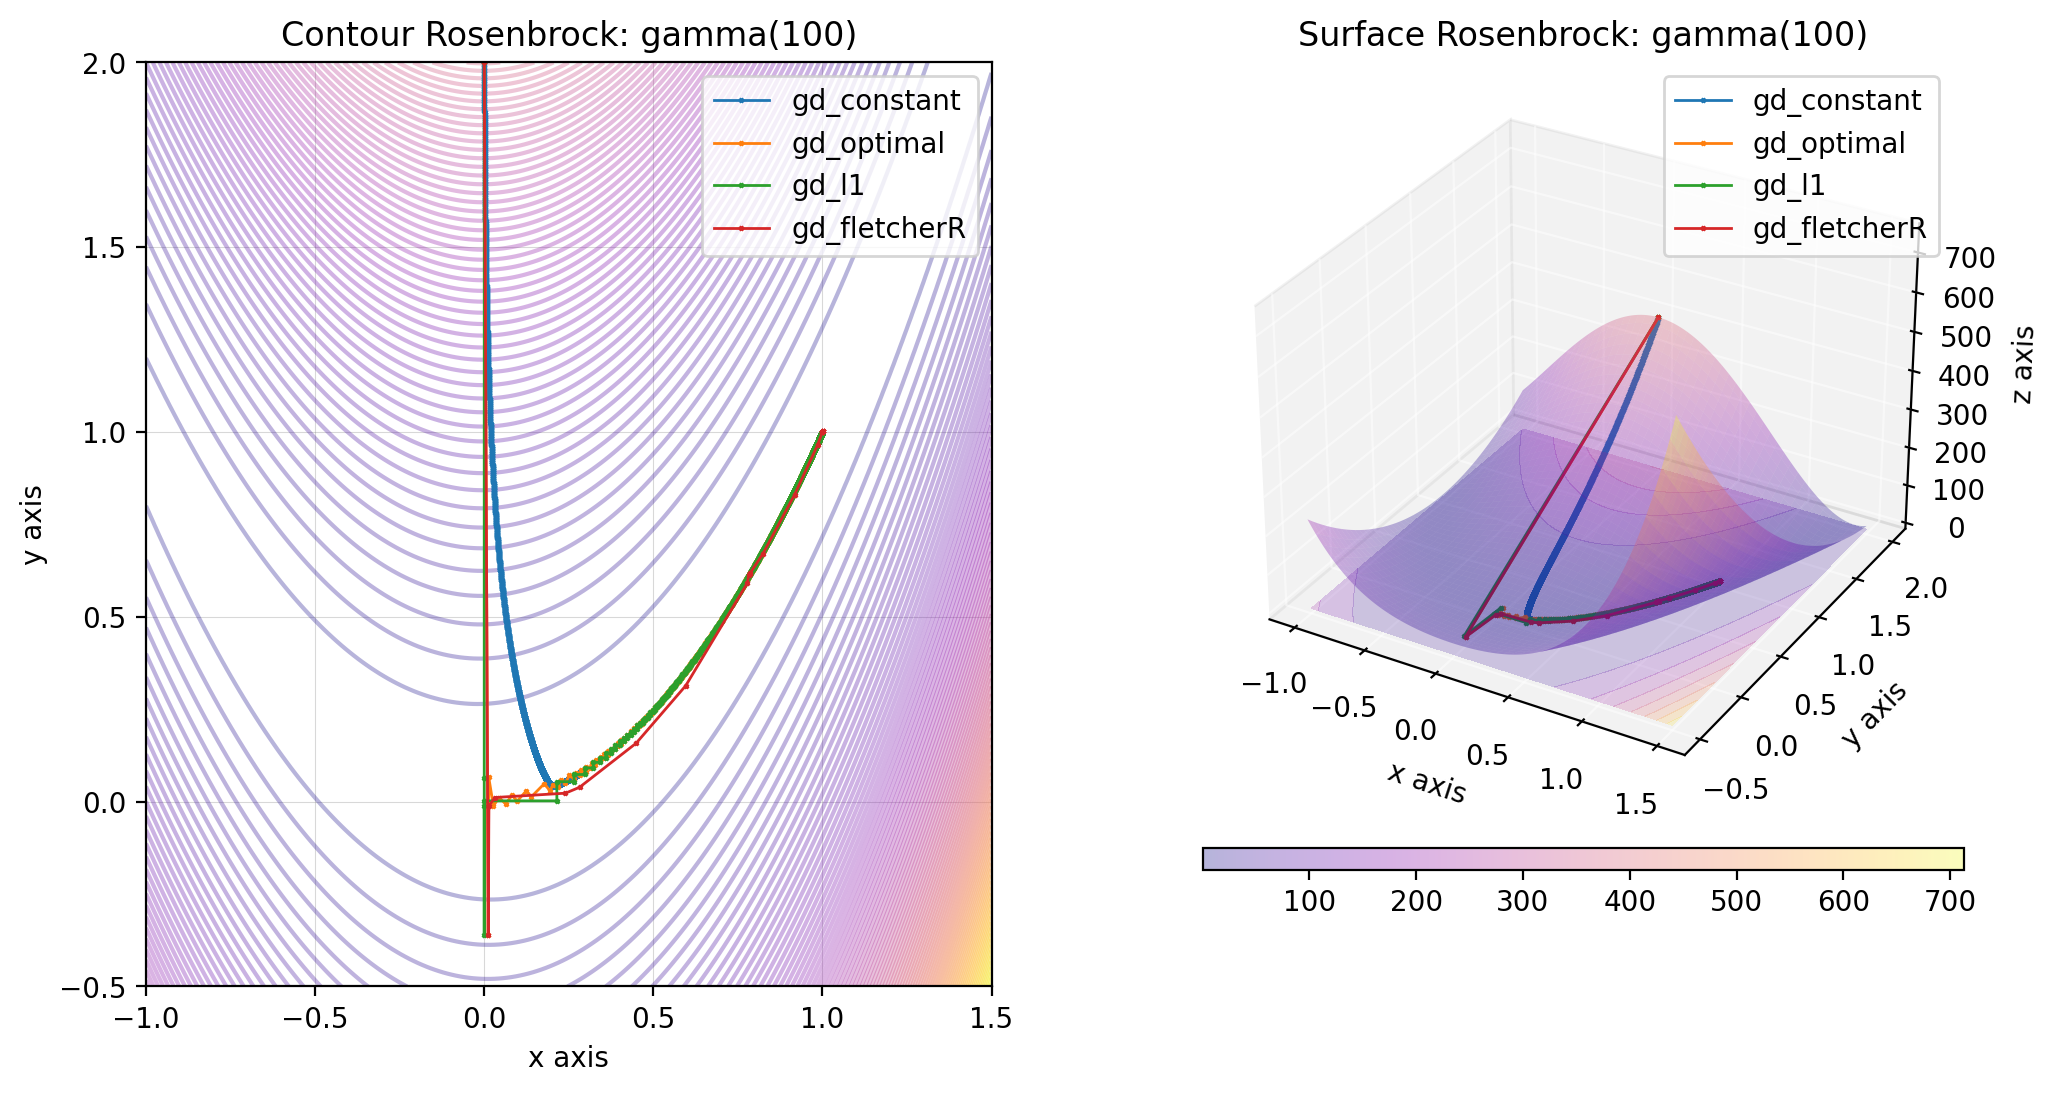
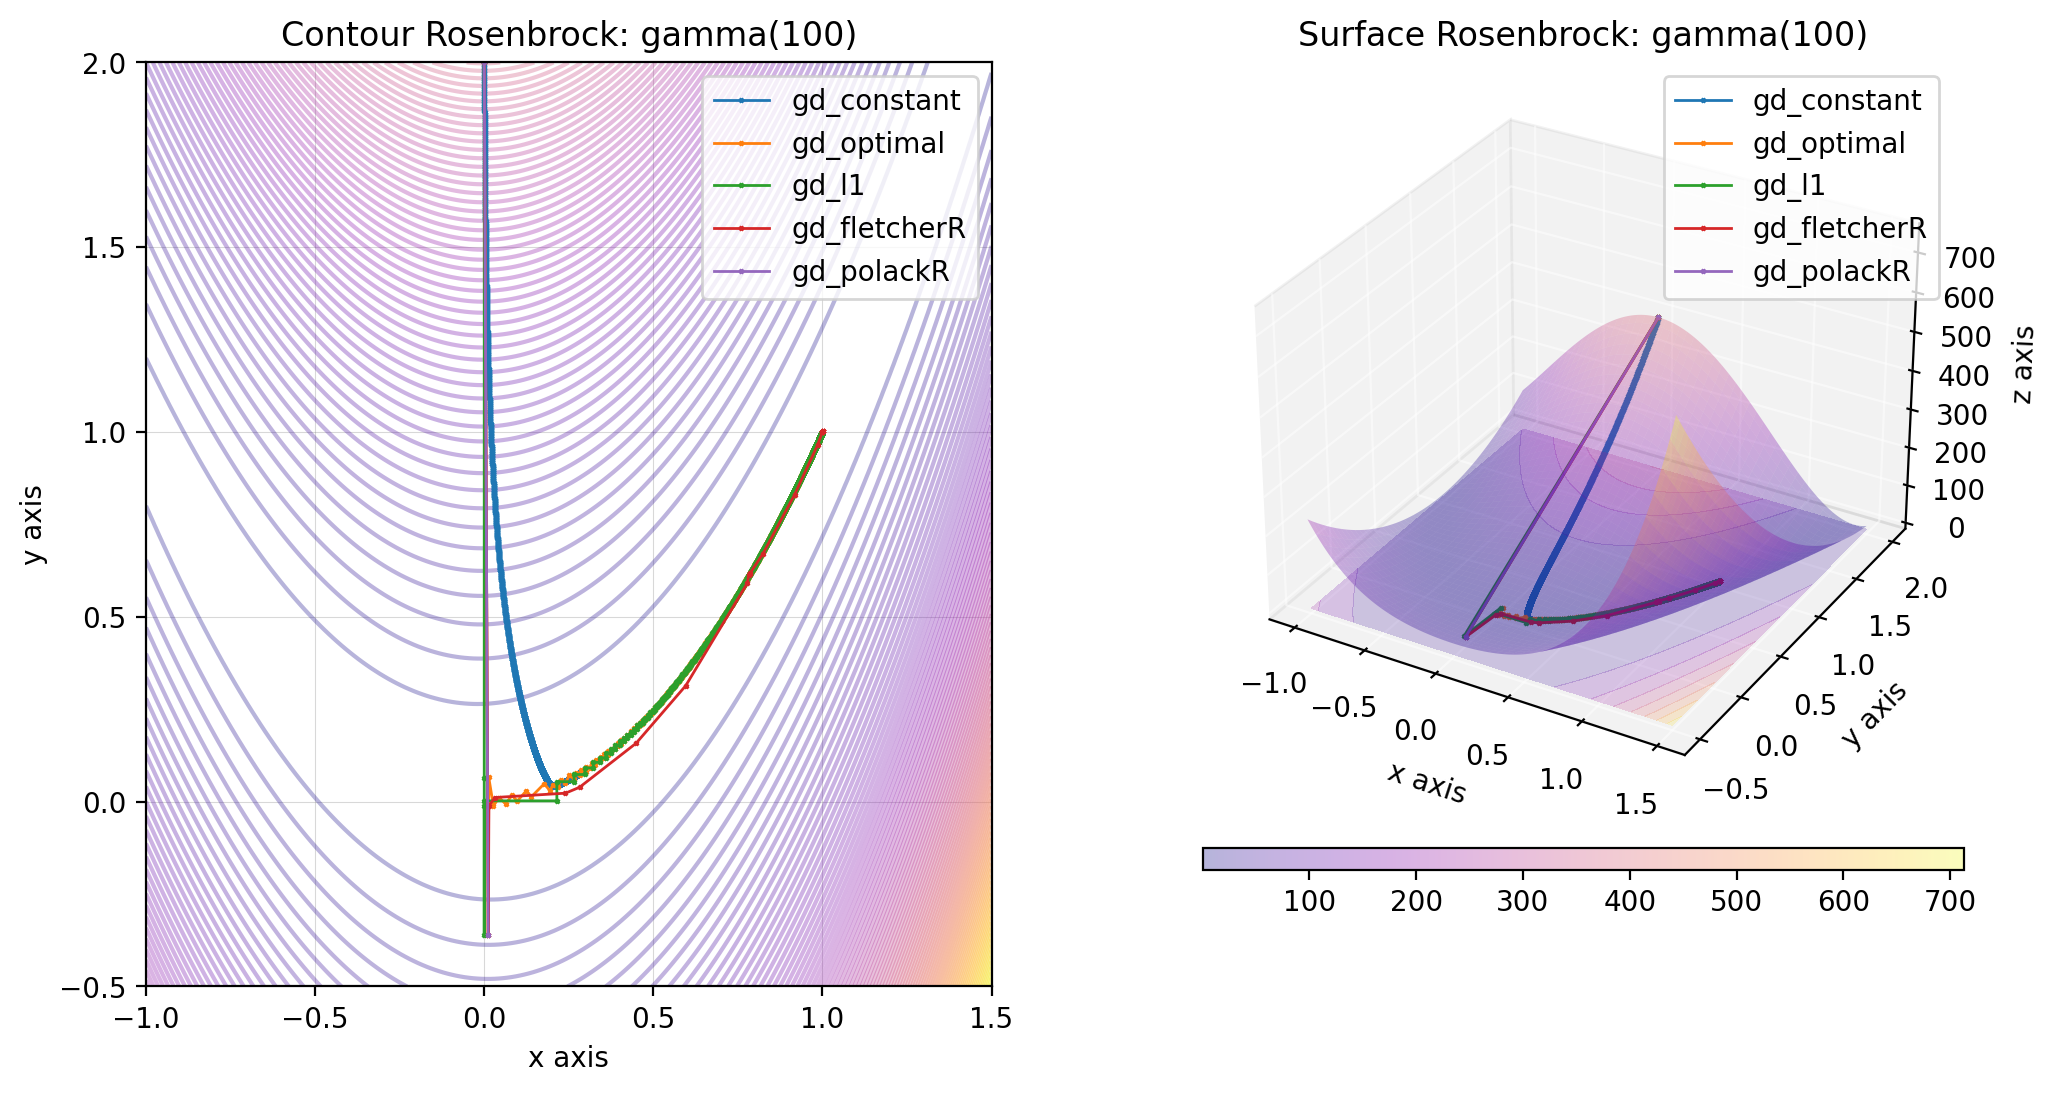
(add) readme for polack ribiere

Changed region(s): [[0.3417, 0.2177, 0.4971, 0.28], [0.8078, 0.2177, 0.932, 0.28]]

diff --git a/descent/gradient/__init__.py b/descent/gradient/__init__.py
@@ -4,6 +4,7 @@ from .gd_constant import GradientDescentConstant
 from .gd_optimal_step import GradientDescentOptimalStep
 from .gd_l1_optimisation import GradientDescentL1Optimisation
 from .gd_fletcher_reeves import GradientDescentFletcherReeves
+from .gd_polack_ribiere import GradientDescentPolackRibiere
 
 __all__ = [
     "partial",
@@ -13,4 +14,5 @@ __all__ = [
     "GradientDescentOptimalStep",
     "GradientDescentL1Optimisation",
     "GradientDescentFletcherReeves",
+    "GradientDescentPolackRibiere",
 ]

diff --git a/README.md b/README.md
@@ -238,8 +238,54 @@ descents = {
 rosenbrock.figure(x, descent=descents, plot_contour=True)
 ```
 
-![GradientDescentL1Optimization](./images/gd_fr.png)
+![GradientDescentFletcherReeves](./images/gd_fr.png)
 
+
+### Gradient Descent with compose gradient, Polack-Ribière
+
+#### Mathematical Background
+
+An alternative method is that proposed by Polack-Ribière.
+
+$d_k$ is then defined by the following relation:
+
+$d_k = -\nabla J(x_k) + \beta_k d_{k-1}$ avec $\beta_k = \dfrac{\nabla J(x_k)^T (\nabla J(x_k) - \nabla J(x_{k-1}))}{\|\nabla J(x_{k-1})\|^2}$
+
+#### Algorithm
+
+The algorithm is the same as the one with an optimal step, except for the descent direction ${\bf d}_k$.
+
+As long as the norm $|| {\bf p}_{k+1} - {\bf p}_k|| > \varepsilon$ with $\varepsilon$ a small value:
+
+1. Choose a descent direction ${\bf d}_k$ using the Polack-Ribière method.
+2. Compute the step size $\mu$ using the Armijo rule.
+3. Move in this direction: ${\bf p}_{k+1} = {\bf p}_k + \mu \, {\bf d}_k$.
+
+#### Usage
+
+```python
+import numpy as np
+from descent.gradient import GradientDescentPolackRibiere
+from descent.figure3d import Rosenbrock
+
+x, y = np.linspace(-1, 1.5, 200), np.linspace(-0.5, 2, 200)
+x = np.stack((x, y), axis=-1)
+rosenbrock = Rosenbrock(100)
+
+x0 = np.array([0, 2])
+mu = 0.00001
+
+gd_polackR = GradientDescentPolackRibiere()
+res_gd_pr = gd_polackR(rosenbrock, x0)
+
+descents = {
+    "gd_polackR": res_gd_pr,
+}
+
+rosenbrock.figure(x, descent=descents, plot_contour=True)
+```
+
+![GradientDescentPolackRibiere](./images/gd_pr.png)
 
 ### Gradient descent comparison
 
@@ -251,6 +297,7 @@ from descent.gradient import GradientDescentConstant
 from descent.gradient import GradientDescentOptimalStep
 from descent.gradient import GradientDescentL1Optimisation
 from descent.gradient import GradientDescentFletcherReeves
+from descent.gradient import GradientDescentPolackRibiere
 
 x, y = np.linspace(-1, 1.5, 200), np.linspace(-0.5, 2, 200)
 x = np.stack((x, y), axis=-1)
@@ -271,11 +318,15 @@ res_gd_l1 = gd_l1(rosenbrock, x0)
 gd_fletcherR = GradientDescentFletcherReeves()
 res_gd_fr = gd_fletcherR(rosenbrock, x0)
 
+gd_polackR = GradientDescentPolackRibiere()
+res_gd_pr = gd_polackR(rosenbrock, x0)
+
 descents = {
     "gd_constant": res_gd_constant,
     "gd_optimal": res_gd_optimal,
     "gd_l1": res_gd_l1,
     "gd_fletcherR": res_gd_fr,
+    "gd_polackR": res_gd_pr,
 }
 
 rosenbrock.figure(x, descent=descents, plot_contour=True)
